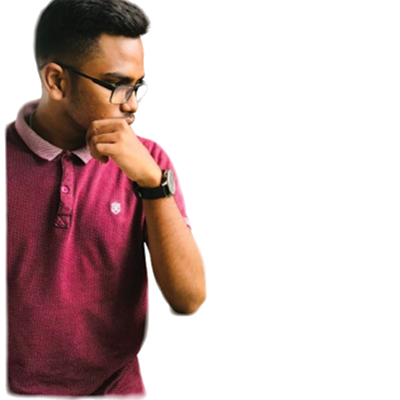
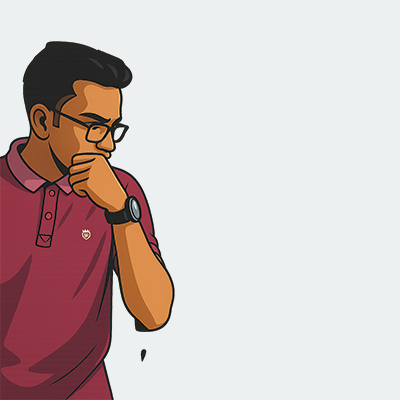
Changing Details

diff --git a/index.html b/index.html
@@ -45,28 +45,37 @@
             <h2 class="section-title">About Me</h2>
             <div class="about-content">
                 <div class="about-image">
-                    <img src="https://via.placeholder.com/300x300" alt="About Image">
+                    <img src="Images/PP.png" alt="About Image">
                 </div>
                 <div class="about-text">
                     <h3>Who am I?</h3>
-                    <p>I'm a passionate web developer with expertise in HTML, CSS, JavaScript, and various frameworks. I love creating beautiful, functional websites that provide great user experiences.</p>
-                    <p>With over 5 years of experience in the industry, I've worked on projects ranging from small business websites to large-scale web applications.</p>
+                    <h4>BSc in Management Information Systems (Special) Undergraduate</h4>
+                    <p align="justify">I'm a dedicated Management Information Systems (MIS) student with a strong interest in quality assurance and ensuring the reliability and performance of software systems.</p>
+                    <p align="justify">With a solid understanding of both business processes and technical foundations, I strive to bridge the gap between users and developers by ensuring that applications meet both functional and user-centric requirements. I'm passionate about identifying issues, improving processes, and contributing to the delivery of high-quality software. Continuously expanding my knowledge in testing methodologies, automation tools, and modern QA practices, I'm committed to growing in the field of software quality assurance and making a meaningful impact in every project I contribute to.</p>
                     <div class="about-details">
                         <div class="detail-item">
                             <span>Name:</span>
-                            <p>Your Name</p>
+                            <p>Nimsara Perera</p>
+                        </div>
+                        <div class="detail-item">
+                            <span>Age:</span>
+                            <p>24</p>
                         </div>
                         <div class="detail-item">
                             <span>Email:</span>
-                            <p>your.email@example.com</p>
+                            <p>nimsaraperera2001@gmail.com</p>
                         </div>
                         <div class="detail-item">
-                            <span>Experience:</span>
-                            <p>5+ Years</p>
+                            <span>Degree:</span>
+                            <p>BSc in MIS</p>
+                        </div>
+                        <div class="detail-item">
+                            <span>Phone:</span>
+                            <p>076 448 5847</p>
                         </div>
                         <div class="detail-item">
                             <span>Location:</span>
-                            <p>City, Country</p>
+                            <p>Homagama, Sri Lanka.</p>
                         </div>
                     </div>
                     <a href="#" class="btn">Download CV</a>
@@ -110,7 +119,7 @@
                     </div>
                     <div class="skill-item">
                         <div class="skill-info">
-                            <span>React</span>
+                            <span>Dart</span>
                             <span>80%</span>
                         </div>
                         <div class="skill-bar">
@@ -122,8 +131,8 @@
                     <h3>Backend</h3>
                     <div class="skill-item">
                         <div class="skill-info">
-                            <span>Node.js</span>
-                            <span>75%</span>
+                            <span>Firebase</span>
+                            <span>65%</span>
                         </div>
                         <div class="skill-bar">
                             <div class="skill-level node"></div>
@@ -141,7 +150,7 @@
                     <div class="skill-item">
                         <div class="skill-info">
                             <span>PHP</span>
-                            <span>65%</span>
+                            <span>80%</span>
                         </div>
                         <div class="skill-bar">
                             <div class="skill-level php"></div>
@@ -231,19 +240,19 @@
                     <h3>Contact Information</h3>
                     <div class="info-item">
                         <i class="fas fa-envelope"></i>
-                        <p>your.email@example.com</p>
+                        <p>nimsaraperera2001.com</p>
                     </div>
                     <div class="info-item">
                         <i class="fas fa-phone"></i>
-                        <p>+1 234 567 890</p>
+                        <p>076 448 587</p>
                     </div>
                     <div class="info-item">
                         <i class="fas fa-map-marker-alt"></i>
-                        <p>123 Street, City, Country</p>
+                        <p>Homagama, Colombo, Sri lanka.</p>
                     </div>
                     <div class="social-links">
                         <a href="#"><i class="fab fa-github"></i></a>
-                        <a href="#"><i class="fab fa-linkedin"></i></a>
+                        <a href="www.linkedin.com/in/nimsara-perera-55749120b"><i class="fab fa-linkedin"></i></a>
                         <a href="#"><i class="fab fa-twitter"></i></a>
                         <a href="#"><i class="fab fa-instagram"></i></a>
                     </div>
@@ -271,7 +280,7 @@
 
     <footer>
         <div class="container">
-            <p>&copy; 2023 Your Name. All Rights Reserved.</p>
+            <p>&copy; 2025 Your Name. All Rights Reserved.</p>
         </div>
     </footer>
 

diff --git a/styles.css b/styles.css
@@ -213,7 +213,7 @@ header .container {
 }
 
 .about-image img {
-    width: 100%;
+    width: 75%;
     border-radius: 10px;
     box-shadow: 0 10px 30px rgba(0, 0, 0, 0.1);
 }
@@ -235,7 +235,7 @@ header .container {
 .about-details {
     display: grid;
     grid-template-columns: repeat(2, 1fr);
-    gap: 20px;
+    gap: 0px;
     margin: 30px 0;
 }
 
